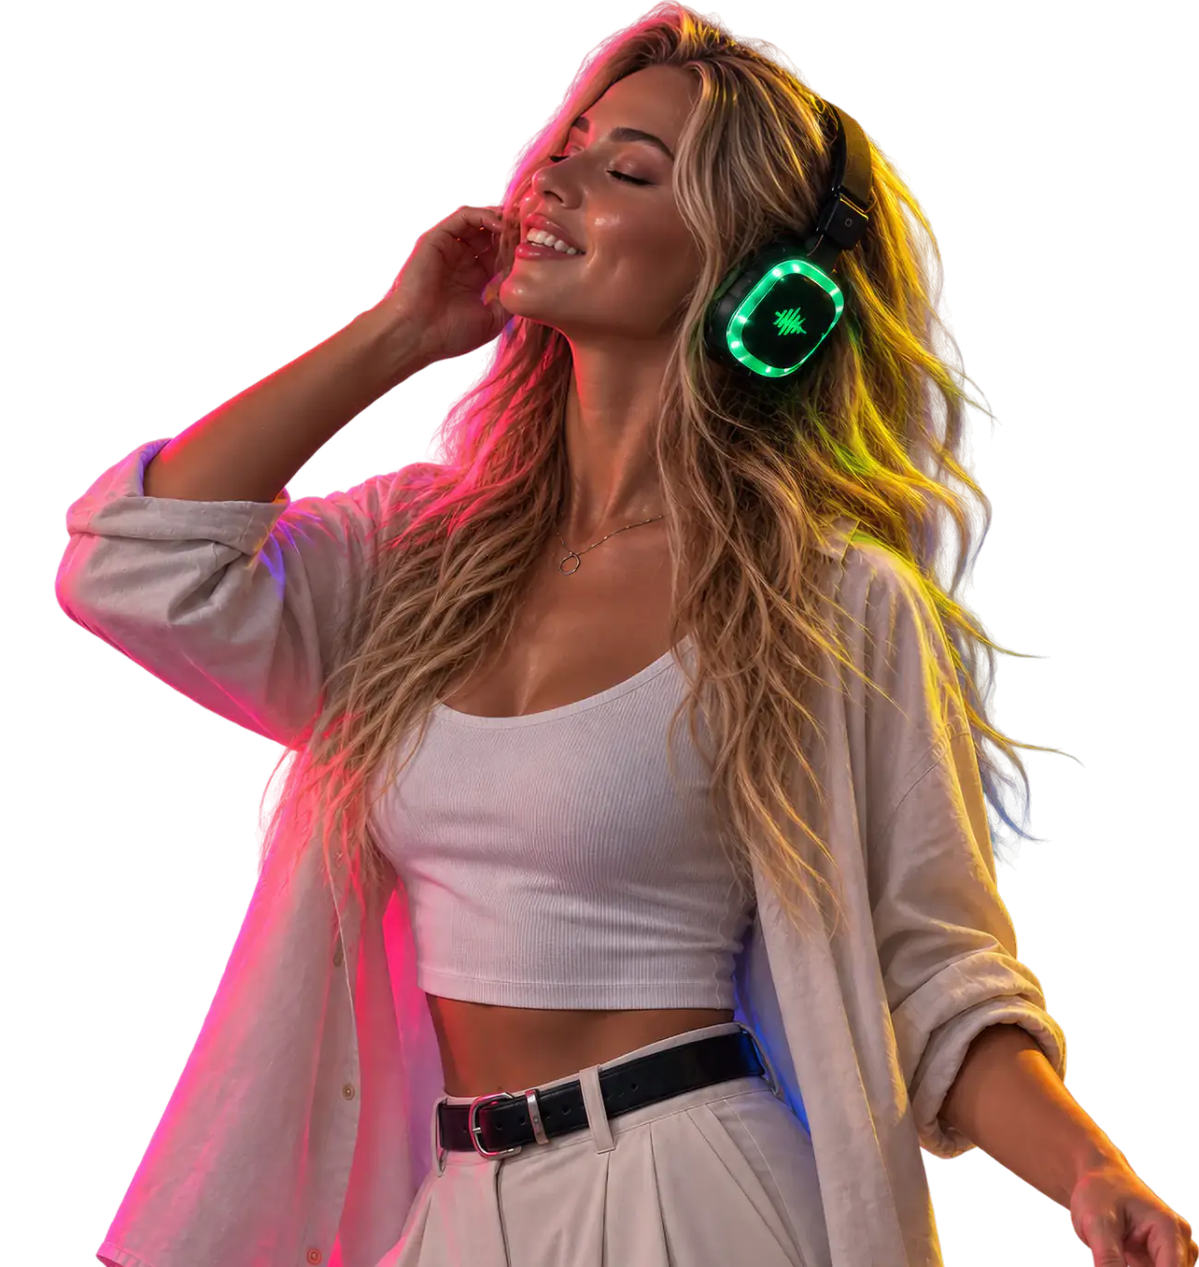
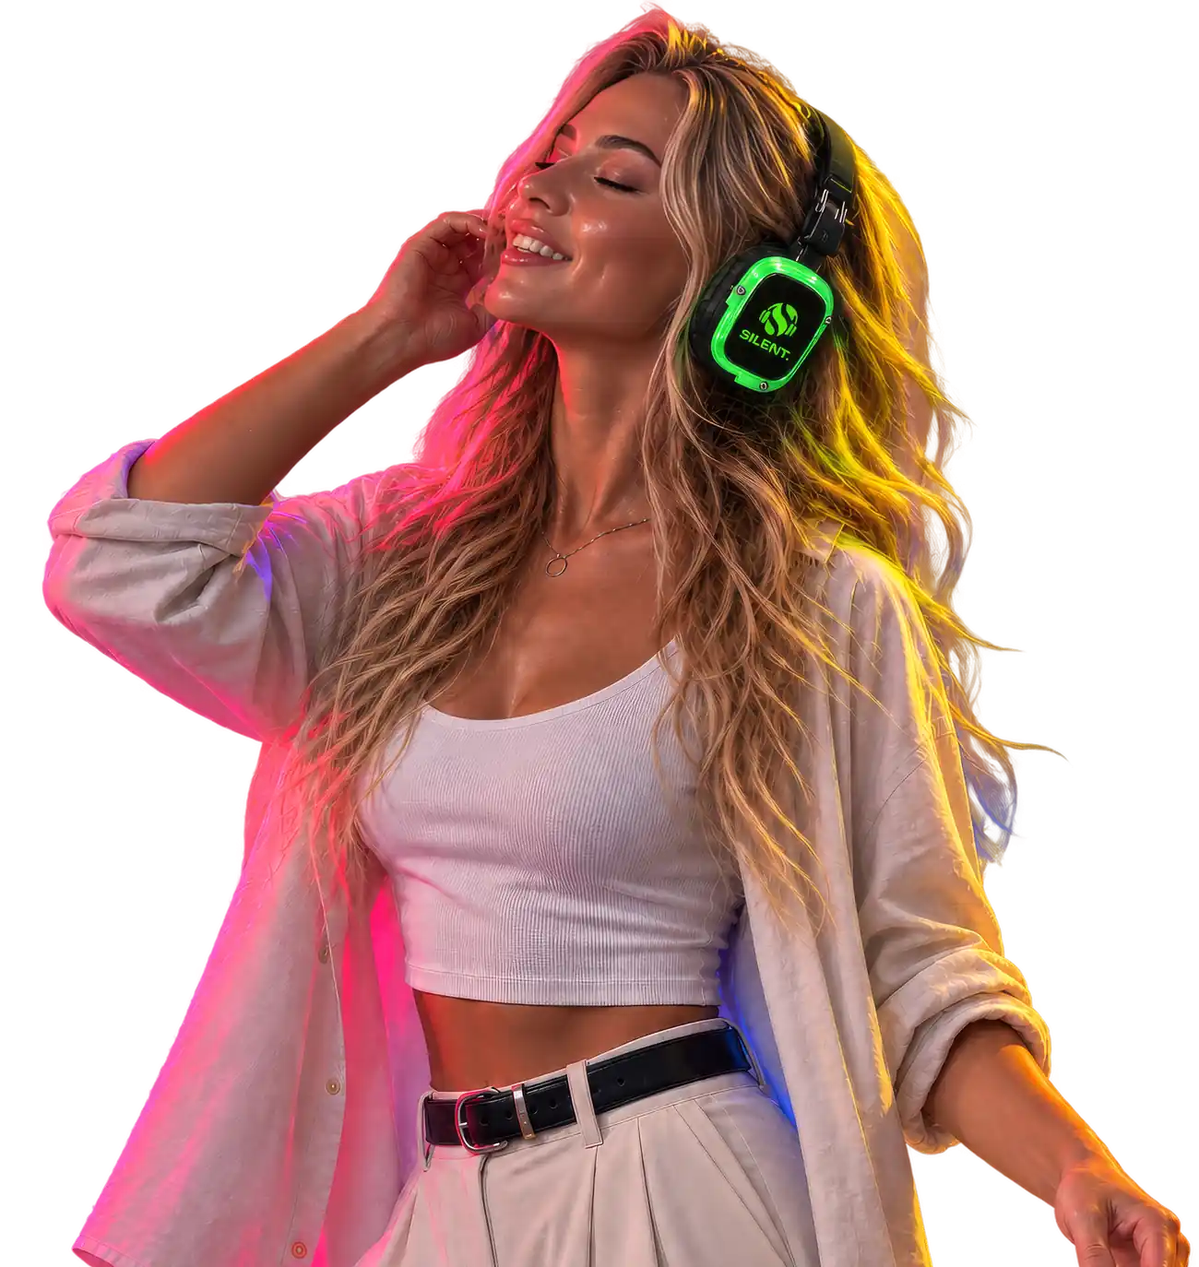
Новий логотип на навушниках героїні, три виправлення з корпоративів
Фото героїні в геро замінено на оновлений рендер із логотипом SILENT на
навушниках (раніше — родовий значок). Кроп під нову картинку знайдено
за трьома точковими орієнтирами (зелене світіння, рожевий і жовтий
відсвіт волосся) з попереднього рендеру, зіставленими з альфа-межами
поточного hero-dancer.webp; на новому зображенні перевірено збігом
альфа-меж (розбіжність до 1%). Розмір, формат і вага файлу — той самий
(1300×1374 і 1040×1099, WebP, ~136 і ~95 КБ).

Стрічка «Інші формати» на корпоративах: клік по темі міг жбурнути
галерею в самий кінець від пʼяти пікселів прокрутки. Причина —
idleNormaliser із попереднього нескінченного режиму: period лишався
старим (порахованим під 43 картки), а scrollLeft у щойно
перемальованому фільтрованому ряду стартує з 0 — перший же скрол-івент
читався як «біля краю», і guard() додавав старий period, який
браузер обрізав до максимуму прокрутки. Виправлено прапорцем
virtualized, яким normalise() тепер керується.

Той самий лінивий запуск (view.closest('section') замість id=cases)
розкрив другий, тісно повʼязаний край: step, яким рахує свій крок
стрілка nudge(), проставляє тільки build() — а build() тепер чекає
наближення секції. Клік по стрілці чи темі до того, як користувач
доскролив, заставав step на 0, і стрілка мовчки нікуди не гортала.
nudge() тепер сам рахує крок через metrics(), коли build() ще не
встиг.

Текст по колу навколо кнопки плей займав 93% довжини кола — з одним
[…]

diff --git a/assets/site.css b/assets/site.css
@@ -5545,13 +5545,27 @@
     transform-box: fill-box; transform-origin: center;
   }
 
-  .b-icon.i-bars .bi-bar, .f-ico.i-bars .bi-bar { animation: icBar 1.15s ease-in-out infinite paused; }
-  .b-icon.i-bars .bi-bar:nth-child(2), .f-ico.i-bars .bi-bar:nth-child(2) { animation-delay: .09s; }
-  .b-icon.i-bars .bi-bar:nth-child(3), .f-ico.i-bars .bi-bar:nth-child(3) { animation-delay: .18s; }
-  .b-icon.i-bars .bi-bar:nth-child(4), .f-ico.i-bars .bi-bar:nth-child(4) { animation-delay: .27s; }
-  .b-icon.i-bars .bi-bar:nth-child(5), .f-ico.i-bars .bi-bar:nth-child(5) { animation-delay: .36s; }
-  .b-icon.i-bars .bi-bar:nth-child(6), .f-ico.i-bars .bi-bar:nth-child(6) { animation-delay: .45s; }
+  .b-icon.i-bars .bi-bar { animation: icBar 1.15s ease-in-out infinite paused; }
+  .b-icon.i-bars .bi-bar:nth-child(2) { animation-delay: .09s; }
+  .b-icon.i-bars .bi-bar:nth-child(3) { animation-delay: .18s; }
+  .b-icon.i-bars .bi-bar:nth-child(4) { animation-delay: .27s; }
+  .b-icon.i-bars .bi-bar:nth-child(5) { animation-delay: .36s; }
+  .b-icon.i-bars .bi-bar:nth-child(6) { animation-delay: .45s; }
   @keyframes icBar { 0%, 100% { scale: 1 0.55; } 50% { scale: 1 1.25; } }
+
+  /* Факти в геро корпоративів стоять на власному ритмі спокою: 0%-кадр
+     paused-анімації — це і є вигляд іконки, доки на неї не навели, тож
+     спільний icBar (де спокій — сплющені на 55% риски) тут не годиться:
+     піктограма мала виглядати недомальованою, поки її не торкнулися. Тут
+     риски в спокої на повну висоту, а рух додається зверху, не забираючи
+     нічого. */
+  .f-ico.i-bars .bi-bar { animation: icBarFull 1.15s ease-in-out infinite paused; }
+  .f-ico.i-bars .bi-bar:nth-child(2) { animation-delay: .09s; }
+  .f-ico.i-bars .bi-bar:nth-child(3) { animation-delay: .18s; }
+  .f-ico.i-bars .bi-bar:nth-child(4) { animation-delay: .27s; }
+  .f-ico.i-bars .bi-bar:nth-child(5) { animation-delay: .36s; }
+  .f-ico.i-bars .bi-bar:nth-child(6) { animation-delay: .45s; }
+  @keyframes icBarFull { 0%, 100% { scale: 1 1; } 50% { scale: 1 1.3; } }
 
   .b-icon.i-toggle .bi-knob { animation: icKnob 1.5s cubic-bezier(.65,0,.35,1) infinite paused; }
   @keyframes icKnob { 0%, 100% { translate: 0 0; } 45%, 55% { translate: -8px 0; } }
@@ -5602,9 +5616,14 @@
   .flow-node.i-phones .fn-cup, .f-ico.i-phones .fn-cup { animation: icCupBeat 1.3s ease-in-out infinite paused; }
   .flow-node.i-phones .fn-cup:nth-child(3), .f-ico.i-phones .fn-cup:nth-child(3) { animation-delay: .12s; }
   .flow-node.i-phones .fn-band, .f-ico.i-phones .fn-band { animation: icBandFlex 1.3s ease-in-out infinite paused; }
-  .flow-node.i-phones .fn-beat, .f-ico.i-phones .fn-beat { animation: icBeatPulse 1.3s ease-in-out infinite paused; animation-delay: .3s; }
+  .flow-node.i-phones .fn-beat { animation: icBeatPulse 1.3s ease-in-out infinite paused; animation-delay: .3s; }
+  /* Той самий рядок звуку, але для геро корпоративів: у спокої повна
+     непрозорість замість притишеної 0.35 — та сама причина, що й у смуг
+     еквалайзера вище. */
+  .f-ico.i-phones .fn-beat { animation: icBeatPulseFull 1.3s ease-in-out infinite paused; animation-delay: .3s; }
   @keyframes icCupBeat  { 0%, 100% { scale: 1; } 35% { scale: 1.2; } 60% { scale: .92; } }
   @keyframes icBandFlex { 0%, 100% { scale: 1 1; } 40% { scale: 1.04 .96; } }
+  @keyframes icBeatPulseFull { 0%, 100% { opacity: 1; scale: 1; } 50% { opacity: 1; scale: 1.15; } }
   @keyframes icBeatPulse { 0%, 100% { opacity: .35; scale: .85; } 50% { opacity: 1; scale: 1.1; } }
 
   /* Стрілки стрічки підштовхуються в бік, куди ведуть. */
@@ -5651,16 +5670,17 @@
     animation: galRingSpin 26s linear infinite;
   }
   .gal-ring svg { display: block; width: 100%; height: 100%; overflow: visible; }
-  /* 93% довжини кола — навмисно не всі 100: замір getComputedTextLength()
-     показав, що текст, який рівно дорівнює або перевищує довжину шляху,
-     у деяких браузерах обрізається без попередження, а невеликий проміжок
-     між кінцем і початком рядка читається як пряма ознака зшивки, не як
-     помилка. */
+  /* 98% довжини кола, не 100: getComputedTextLength() показав, що текст, який
+     рівно дорівнює або перевищує довжину шляху, у деяких браузерах
+     обрізається без попередження. Раніше тут стояло 93% — з місцем на цілий
+     зайвий проміжок, який не мав пари серед проміжків між «·» і читався як
+     розрив кола, а не як його продовження. 98% лишає проміжок того самого
+     розміру, що й решта, і кільце змикається на око. */
   .gal-ring text {
     font-family: 'Unbounded', sans-serif;
     font-weight: 400;
-    font-size: 10.5px;
-    letter-spacing: 0.23em;
+    font-size: 11px;
+    letter-spacing: 0.24em;
     fill: var(--lime);
     opacity: 0.82;
   }
@@ -5683,11 +5703,19 @@
      просто з другим селектором поруч, без дублювання keyframes. Кут і хрестик
      унікальні для цієї сторінки, тож дістають власні оголошення тут, у тому
      самому темпі й з тією самою амплітудою, що й решта інтерактивної родини
-     (~1.1–1.6s, paused за замовчуванням). */
-  .f-ico.i-pin .fi-drop { animation: icPinDrop 1.5s cubic-bezier(.33,0,.2,1) infinite paused; }
-  .f-ico.i-pin .fi-eye   { animation: icTwinkle 1.6s ease-in-out infinite paused; }
-  @keyframes icPinDrop { 0%, 100% { translate: 0 0; } 35% { translate: 0 -3.4px; } 60% { translate: 0 .8px; } }
+     (~1.1–1.6s, paused за замовчуванням).
 
-  .f-ico.i-mute .fi-x { animation: icMuteFlash 1.3s ease-in-out infinite paused; }
+     Але 0%-кадр в icTwinkle/icMuteFlash притишений (opacity .3) — той самий
+     компроміс, що вище: цей 0%-кадр і є виглядом іконки в спокої, поки
+     курсор не навели, а фактам у геро мигтіти наполовину не можна: «Тиша
+     ззовні» з напівпрозорим хрестиком читається як «десь тут щось не
+     працює», а не як властивість формату. Тому вічко пінка й хрестик мьюту
+     дістають власні кадри, де спокій — повна непрозорість. */
+  .f-ico.i-pin .fi-drop { animation: icPinDrop 1.5s cubic-bezier(.33,0,.2,1) infinite paused; }
+  .f-ico.i-pin .fi-eye   { animation: icPinEyeFull 1.6s ease-in-out infinite paused; }
+  @keyframes icPinDrop { 0%, 100% { translate: 0 0; } 35% { translate: 0 -3.4px; } 60% { translate: 0 .8px; } }
+  @keyframes icPinEyeFull { 0%, 100% { opacity: 1; scale: 1; } 50% { opacity: 1; scale: 1.25; } }
+
+  .f-ico.i-mute .fi-x { animation: icMuteFlashFull 1.3s ease-in-out infinite paused; }
   .f-ico.i-mute .fi-x:nth-child(3) { animation-delay: .11s; }
-  @keyframes icMuteFlash { 0%, 100% { opacity: .3; scale: .85; } 50% { opacity: 1; scale: 1.05; } }
+  @keyframes icMuteFlashFull { 0%, 100% { opacity: 1; scale: 1; } 50% { opacity: 1; scale: 1.15; } }

diff --git a/assets/site.js b/assets/site.js
@@ -1045,13 +1045,25 @@ const I18N = window.SILENT_I18N;
     view.addEventListener('pointerdown', () => { held = 1; }, { passive: true });
     ['pointerup','pointercancel','touchend','touchcancel'].forEach(ev =>
       window.addEventListener(ev, () => { held = 0; }, { passive: true }));
-    view.addEventListener('scroll', () => { normalise(); sync(); }, { passive: true });
+    // normalise() підтримує ілюзію нескінченної петлі: коли scrollLeft
+    // підходить до краю, він перестрибує на period — величину, пораховану
+    // під усі 43 картки. У простому режимі теми (buildSimple) така петля не
+    // існує: рядок короткий, period лишається старим і набагато більшим за
+    // реальну прокрутку. Перший же скрол після перемикання теми читався як
+    // «біля краю» (scrollLeft стартує з 0, поріг EDGE_GUARD — 420px) і
+    // guard() додавав старий period — стрічку жбурляло в сам кінець.
+    view.addEventListener('scroll', () => { if (virtualized) normalise(); sync(); }, { passive: true });
 
     let touched = false;
     ['pointerdown','touchstart','wheel','keydown'].forEach(ev =>
       view.addEventListener(ev, () => { touched = true; }, { passive: true }));
 
-    function nudge(dir){ view.scrollBy({ left: dir * step * 2, behavior: 'smooth' }); }
+    // step рахує build(), а build() тепер лінивий (whenNear чекає наближення
+    // секції) — клік по стрілці чи темі до того, як користувач доскролив,
+    // заставав step на початковому 0, і стрілка мовчки нікуди не гортала.
+    // metrics() важить копійки, тож рахуємо крок напряму, коли build() ще
+    // не встиг.
+    function nudge(dir){ view.scrollBy({ left: dir * (step || metrics().reduce((a,b)=>a+b)) * 2, behavior: 'smooth' }); }
     if (prev) prev.addEventListener('click', () => nudge(-1));
     if (next) next.addEventListener('click', () => nudge(1));
 

diff --git a/en/index.html b/en/index.html
@@ -197,7 +197,7 @@
 <link rel="preload" as="style" href="https://fonts.googleapis.com/css2?family=Unbounded:wght@300;400;500;600;700;800&family=Manrope:wght@400;500;600;700;800&family=Lora:ital,wght@1,400;1,500;1,600&display=swap" onload="this.onload=null;this.rel='stylesheet';window.__fontsIn&amp;&amp;window.__fontsIn()">
 <noscript><link href="https://fonts.googleapis.com/css2?family=Unbounded:wght@300;400;500;600;700;800&family=Manrope:wght@400;500;600;700;800&family=Lora:ital,wght@1,400;1,500;1,600&display=swap" rel="stylesheet"></noscript>
 <!-- Стилі спільні для української та англомовної версій — один файл на дві -->
-<link rel="stylesheet" href="../assets/site.css?v=496e76c5">
+<link rel="stylesheet" href="../assets/site.css?v=12c602f7">
 </head>
 <body id="top">
 
@@ -1676,6 +1676,6 @@ window.SILENT_I18N = {
   }
 };
 </script>
-<script src="../assets/site.js?v=0444dc26"></script>
+<script src="../assets/site.js?v=1baf015a"></script>
 </body>
 </html>

diff --git a/index.html b/index.html
@@ -197,7 +197,7 @@
 <link rel="preload" as="style" href="https://fonts.googleapis.com/css2?family=Unbounded:wght@300;400;500;600;700;800&family=Manrope:wght@400;500;600;700;800&family=Lora:ital,wght@1,400;1,500;1,600&display=swap" onload="this.onload=null;this.rel='stylesheet';window.__fontsIn&amp;&amp;window.__fontsIn()">
 <noscript><link href="https://fonts.googleapis.com/css2?family=Unbounded:wght@300;400;500;600;700;800&family=Manrope:wght@400;500;600;700;800&family=Lora:ital,wght@1,400;1,500;1,600&display=swap" rel="stylesheet"></noscript>
 <!-- Стилі спільні для української та англомовної версій — один файл на дві -->
-<link rel="stylesheet" href="assets/site.css?v=496e76c5">
+<link rel="stylesheet" href="assets/site.css?v=12c602f7">
 </head>
 <body id="top">
 
@@ -1677,6 +1677,6 @@ window.SILENT_I18N = {
   }
 };
 </script>
-<script src="assets/site.js?v=0444dc26"></script>
+<script src="assets/site.js?v=1baf015a"></script>
 </body>
 </html>

diff --git a/experiences/corporate/index.html b/experiences/corporate/index.html
@@ -55,7 +55,7 @@
 <link rel="preconnect" href="https://fonts.gstatic.com" crossorigin>
 <link rel="preload" as="style" href="https://fonts.googleapis.com/css2?family=Unbounded:wght@300;400;500;600;700;800&family=Manrope:wght@400;500;600;700;800&family=Lora:ital,wght@1,400;1,500;1,600&display=swap" onload="this.onload=null;this.rel='stylesheet'">
 <noscript><link href="https://fonts.googleapis.com/css2?family=Unbounded:wght@300;400;500;600;700;800&family=Manrope:wght@400;500;600;700;800&family=Lora:ital,wght@1,400;1,500;1,600&display=swap" rel="stylesheet"></noscript>
-<link rel="stylesheet" href="../../assets/site.css?v=496e76c5">
+<link rel="stylesheet" href="../../assets/site.css?v=12c602f7">
 </head>
 <body id="top" class="exp-page">
 
@@ -1213,6 +1213,6 @@ window.SILENT_I18N = {
   }
 };
 </script>
-<script src="../../assets/site.js?v=0444dc26"></script>
+<script src="../../assets/site.js?v=1baf015a"></script>
 </body>
 </html>

diff --git a/404.html b/404.html
@@ -56,7 +56,7 @@
 <!-- Усі адреси тут абсолютні, і це не стиль, а вимога: цей файл віддається
      замість будь-якої неіснуючої адреси, зокрема /якась/глибока/сторінка.
      Відносний шлях рахувався б від неї й не знайшов би ні стилів, ні картинок. -->
-<link rel="stylesheet" href="/assets/site.css?v=496e76c5">
+<link rel="stylesheet" href="/assets/site.css?v=12c602f7">
 <!-- site.js сюди не під'єднаний, і це не забутість. Він розрахований на те, що
      сторінка перед ним оголосила window.SILENT_I18N — набір рядків, які скрипт
      виводить сам: заголовки hero, підписи календаря, лайтбокса й форми. Цій

diff --git a/en/404.html b/en/404.html
@@ -56,7 +56,7 @@
 <!-- Усі адреси тут абсолютні, і це не стиль, а вимога: цей файл віддається
      замість будь-якої неіснуючої адреси, зокрема /якась/глибока/сторінка.
      Відносний шлях рахувався б від неї й не знайшов би ні стилів, ні картинок. -->
-<link rel="stylesheet" href="/assets/site.css?v=496e76c5">
+<link rel="stylesheet" href="/assets/site.css?v=12c602f7">
 <!-- site.js сюди не під'єднаний, і це не забутість. Він розрахований на те, що
      сторінка перед ним оголосила window.SILENT_I18N — набір рядків, які скрипт
      виводить сам: заголовки hero, підписи календаря, лайтбокса й форми. Цій

diff --git a/experiences/index.html b/experiences/index.html
@@ -58,7 +58,7 @@
 <link rel="preconnect" href="https://fonts.gstatic.com" crossorigin>
 <link rel="preload" as="style" href="https://fonts.googleapis.com/css2?family=Unbounded:wght@300;400;500;600;700;800&family=Manrope:wght@400;500;600;700;800&family=Lora:ital,wght@1,400;1,500;1,600&display=swap" onload="this.onload=null;this.rel='stylesheet'">
 <noscript><link href="https://fonts.googleapis.com/css2?family=Unbounded:wght@300;400;500;600;700;800&family=Manrope:wght@400;500;600;700;800&family=Lora:ital,wght@1,400;1,500;1,600&display=swap" rel="stylesheet"></noscript>
-<link rel="stylesheet" href="../assets/site.css?v=496e76c5">
+<link rel="stylesheet" href="../assets/site.css?v=12c602f7">
 </head>
 <body id="top" class="page-close-cta">
 
@@ -785,6 +785,6 @@ window.SILENT_I18N = {
   }
 };
 </script>
-<script src="../assets/site.js?v=0444dc26"></script>
+<script src="../assets/site.js?v=1baf015a"></script>
 </body>
 </html>

diff --git a/privacy/index.html b/privacy/index.html
@@ -59,7 +59,7 @@
 <link rel="preconnect" href="https://fonts.gstatic.com" crossorigin>
 <link rel="preload" as="style" href="https://fonts.googleapis.com/css2?family=Unbounded:wght@300;400;500;600;700;800&family=Manrope:wght@400;500;600;700;800&family=Lora:ital,wght@1,400;1,500;1,600&display=swap" onload="this.onload=null;this.rel='stylesheet'">
 <noscript><link href="https://fonts.googleapis.com/css2?family=Unbounded:wght@300;400;500;600;700;800&family=Manrope:wght@400;500;600;700;800&family=Lora:ital,wght@1,400;1,500;1,600&display=swap" rel="stylesheet"></noscript>
-<link rel="stylesheet" href="../assets/site.css?v=496e76c5">
+<link rel="stylesheet" href="../assets/site.css?v=12c602f7">
 </head>
 <body id="top">
 
@@ -330,6 +330,6 @@ window.SILENT_I18N = {
   }
 };
 </script>
-<script src="../assets/site.js?v=0444dc26"></script>
+<script src="../assets/site.js?v=1baf015a"></script>
 </body>
 </html>
